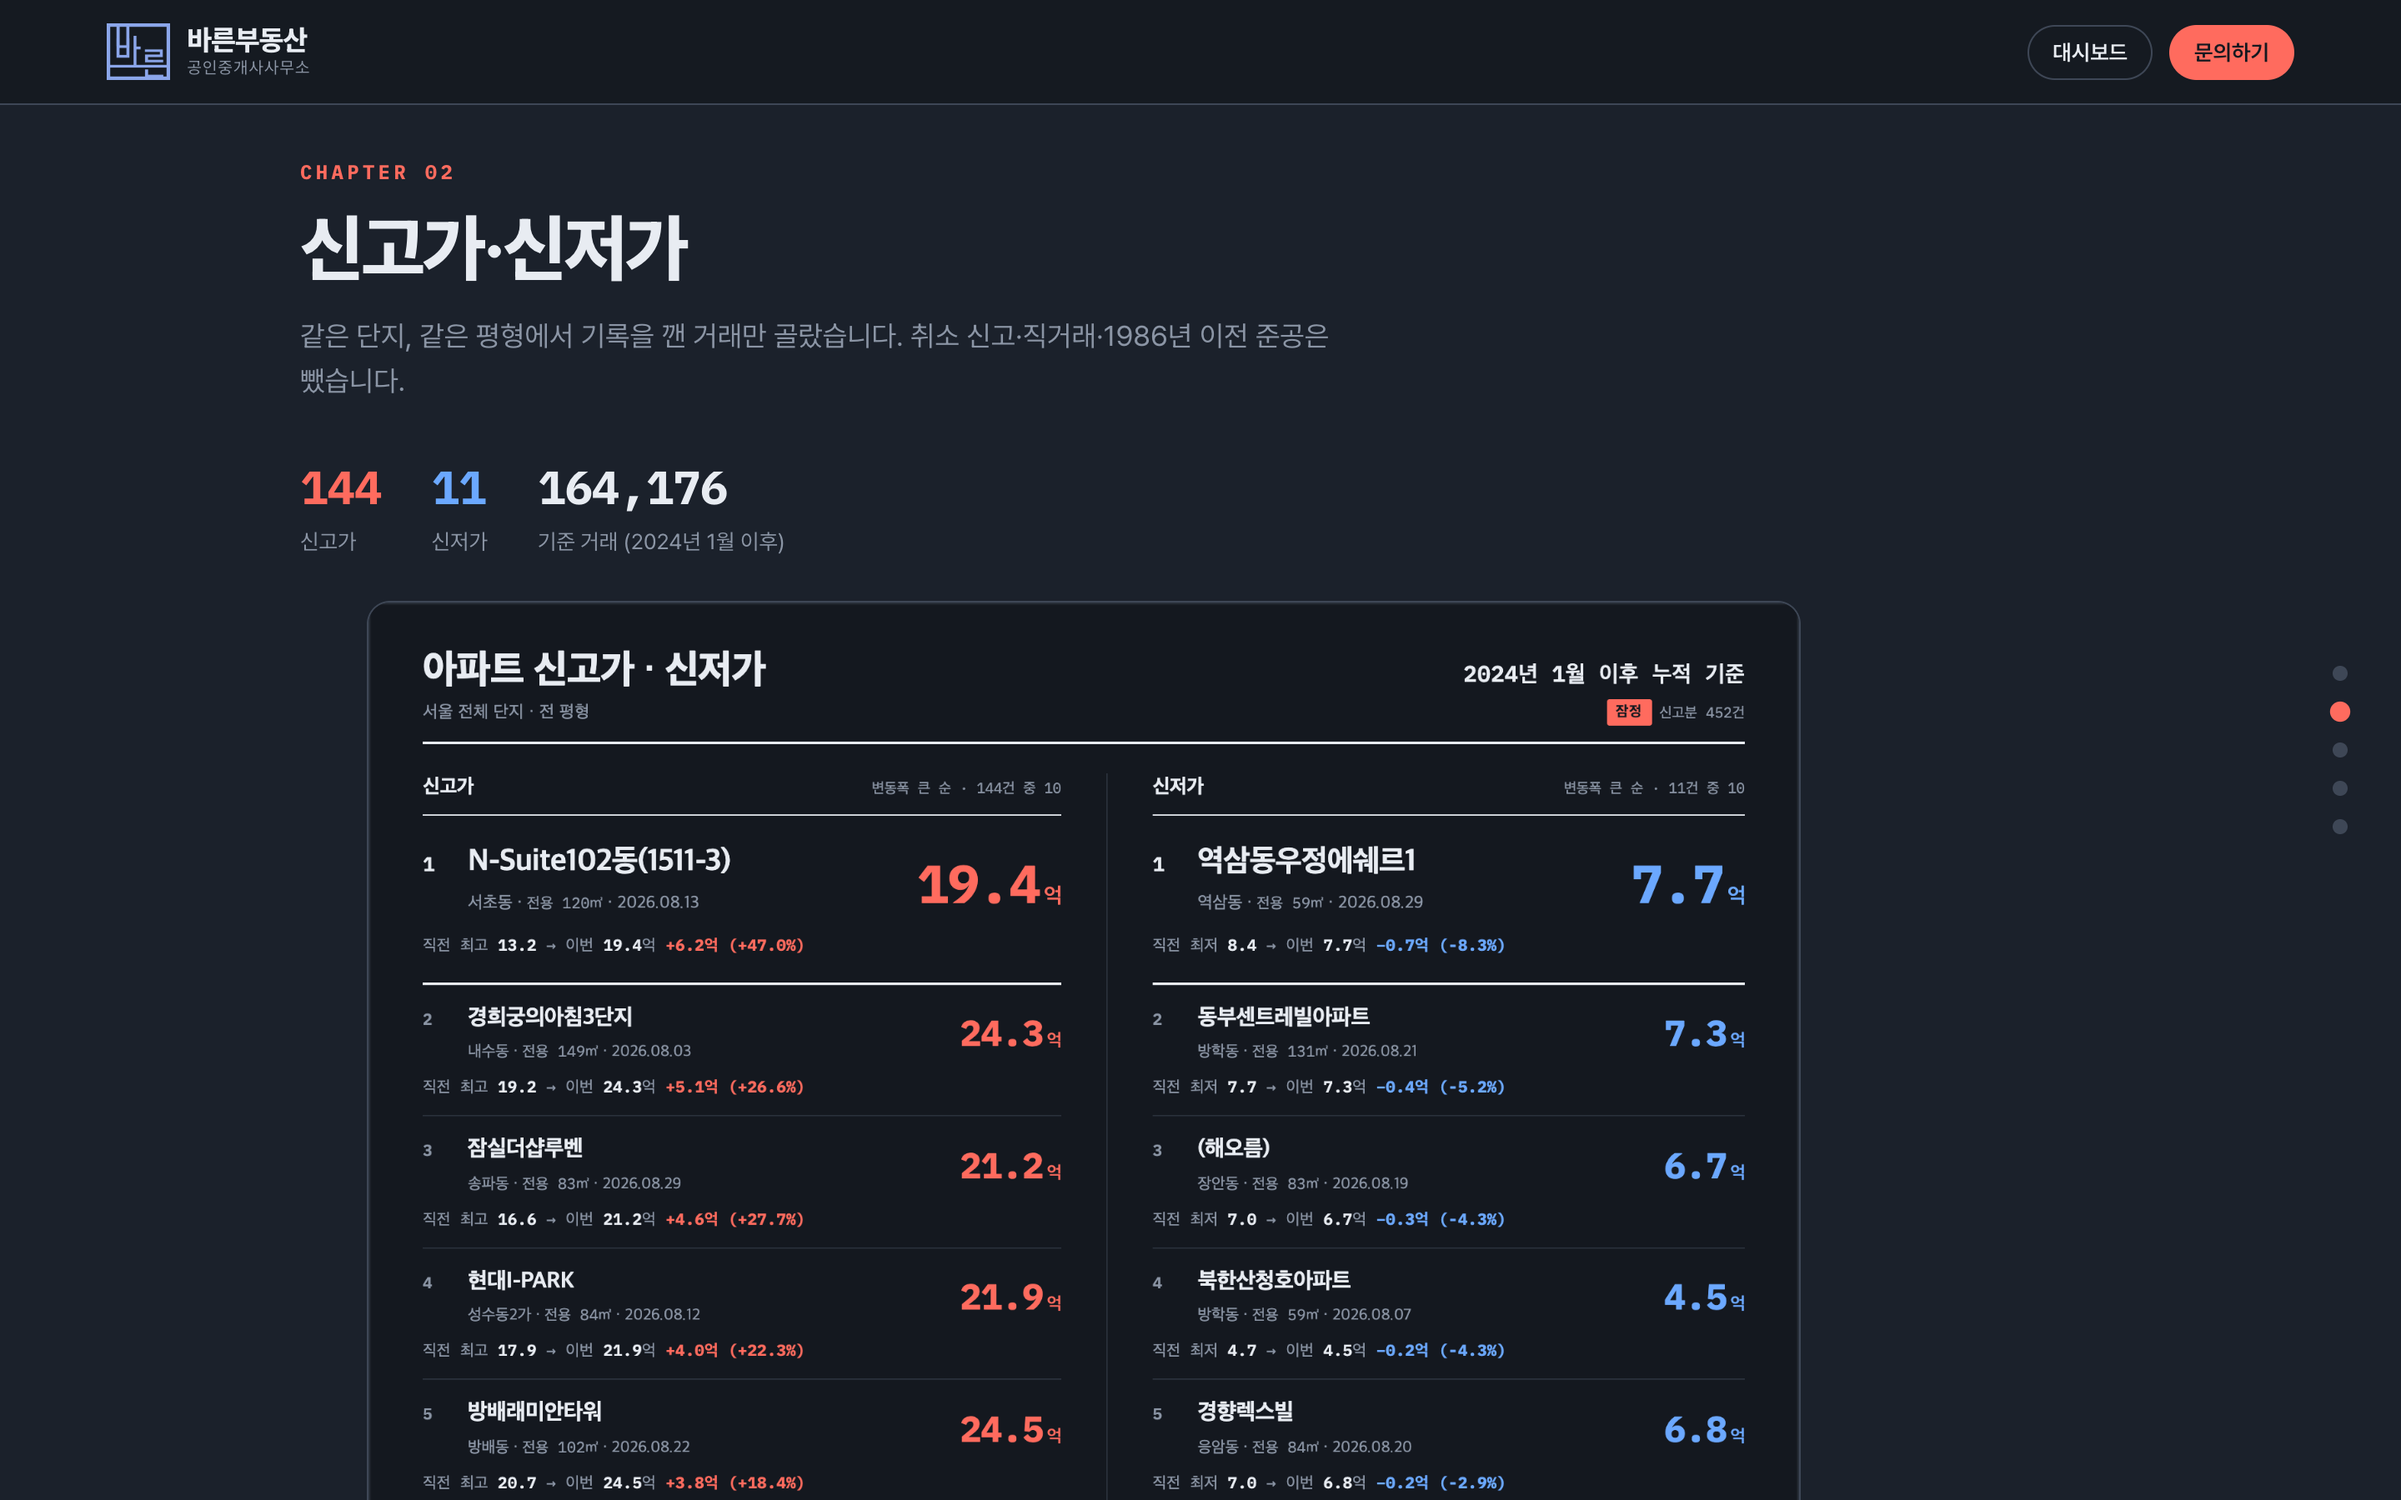
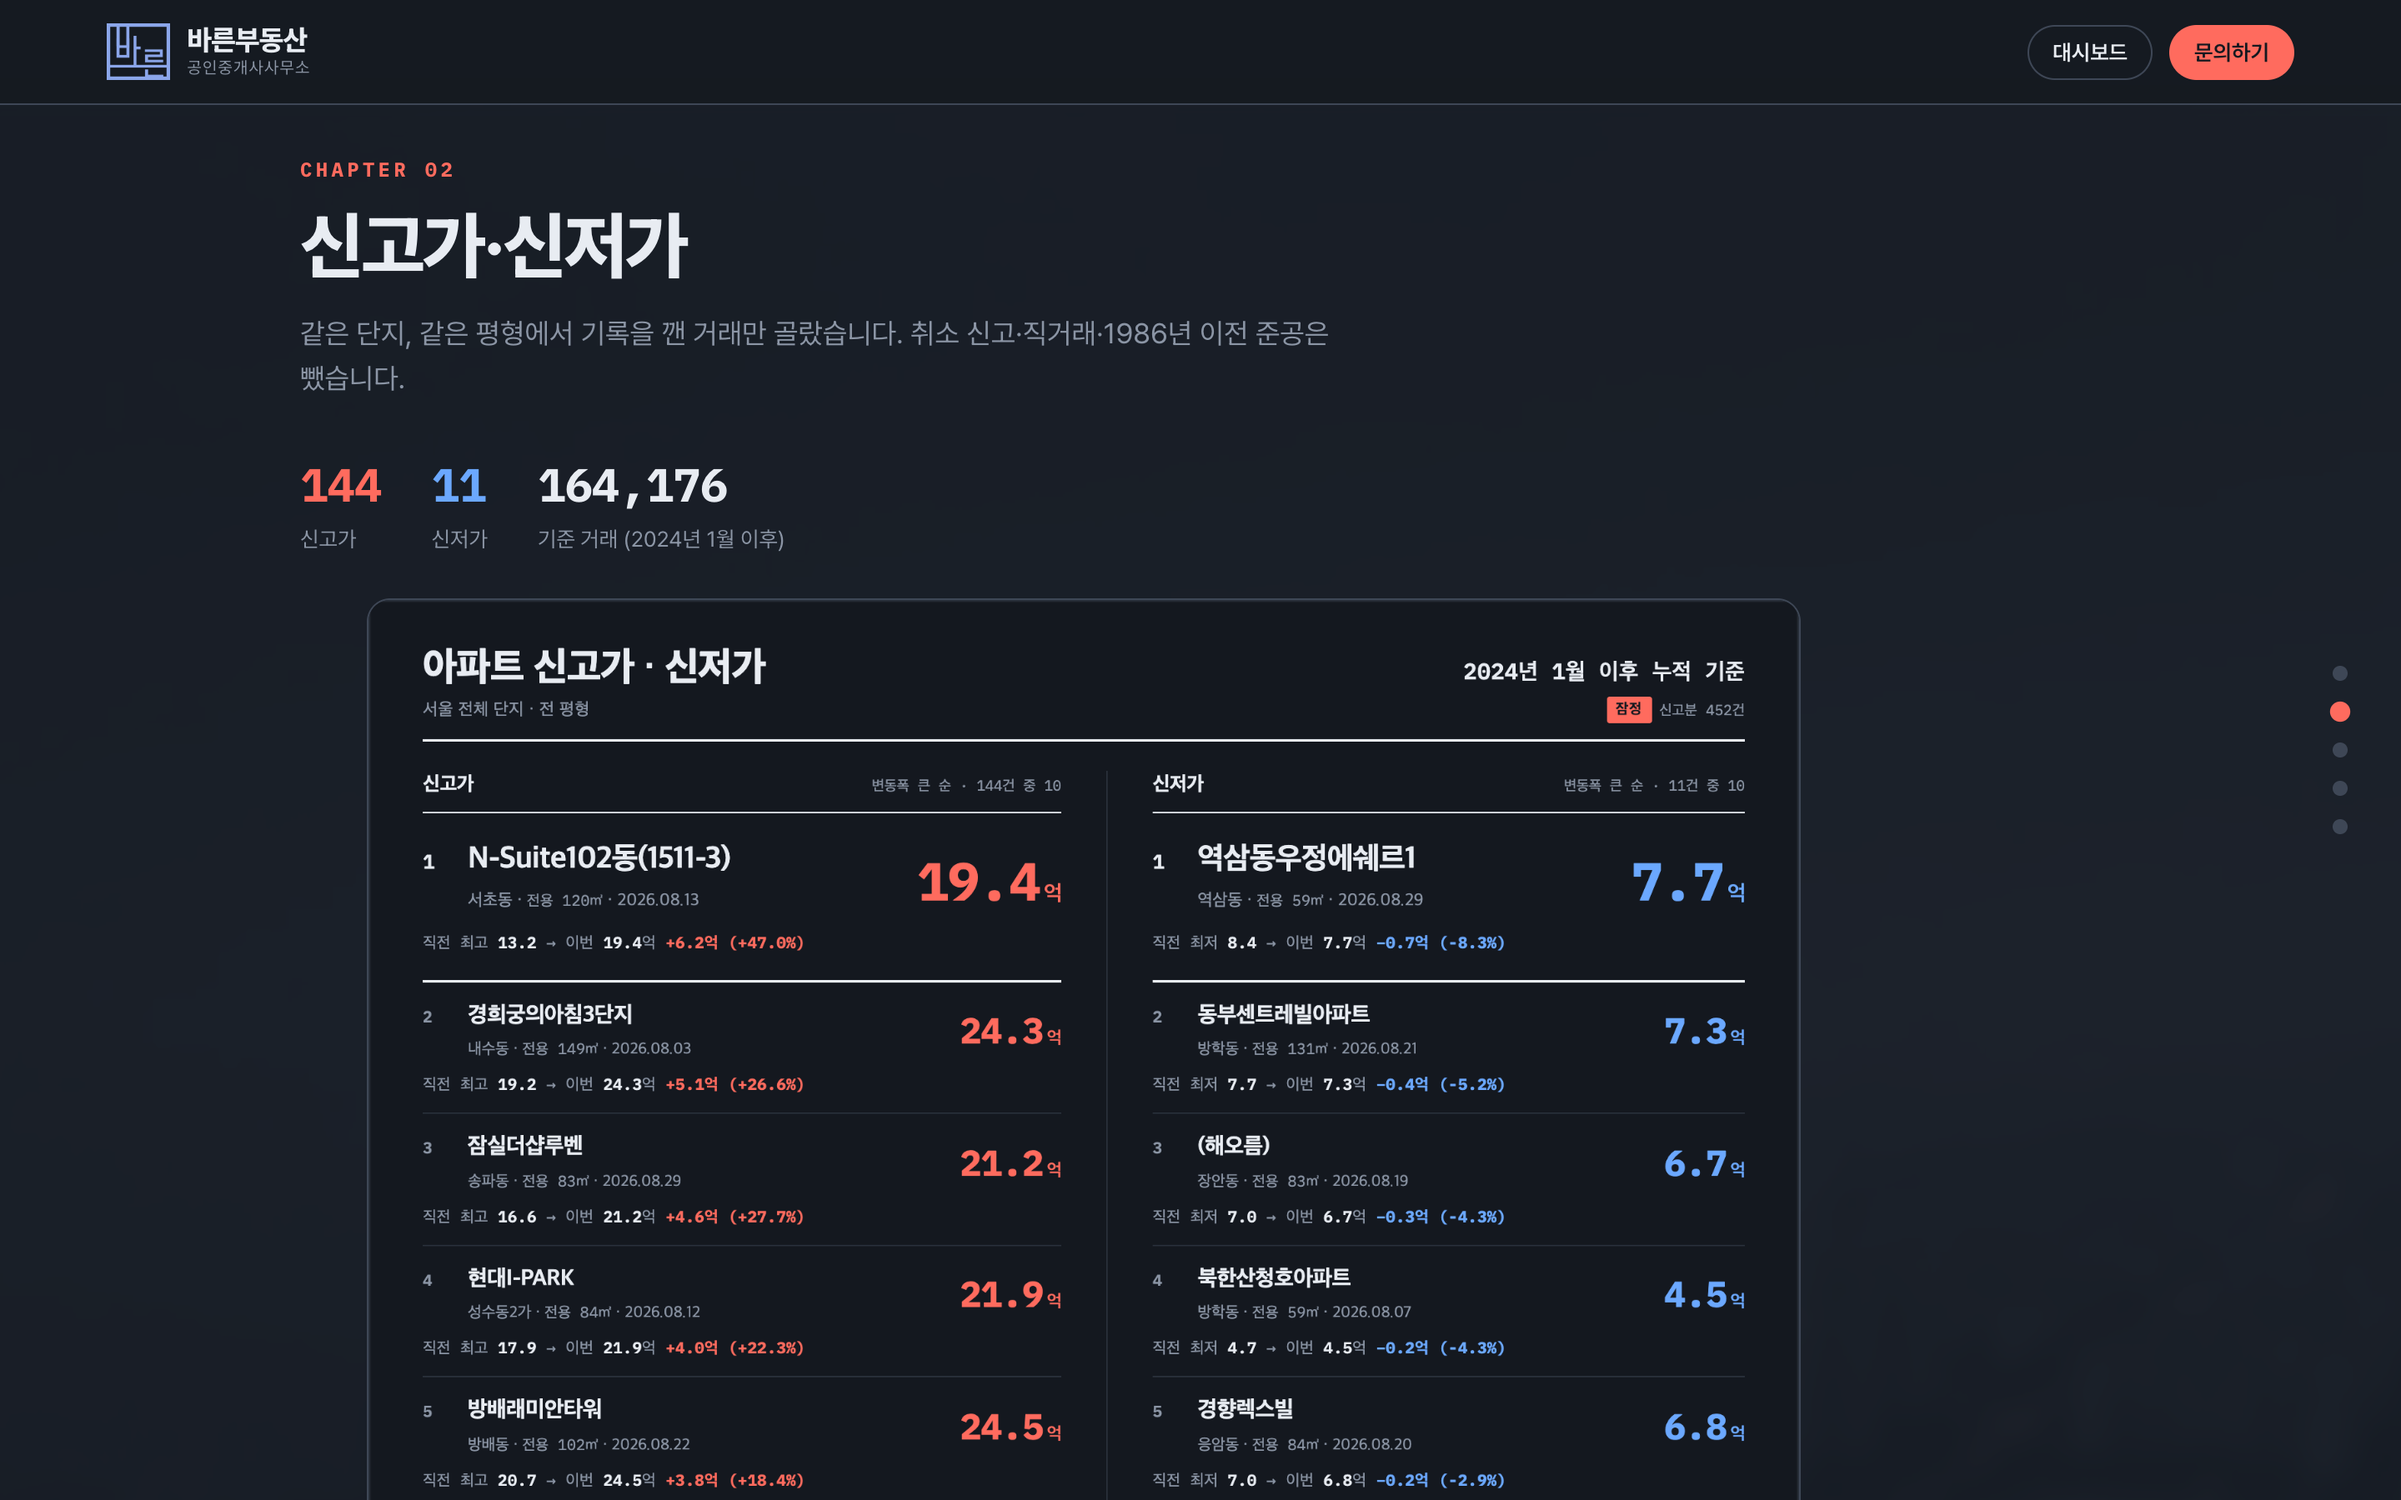
style: 챕터 2~5 배경에 히어로 사진을 낮게 깔고 히어로 안내 문구 제거
같은 사진을 챕터마다 다른 위치·배율로 잘라 써 반복감을 없앴다.
opacity .2 + blur 8px + brightness .72 — 리포트 이미지와 글자가 주인공이다.
휴대폰도 같은 이미지 배경을 그대로 쓴다.

diff --git a/index.html b/index.html
@@ -98,7 +98,30 @@ section.ch{
   border-bottom:1px solid var(--slate);position:relative;overflow:hidden;
 }
 section.ch:nth-child(even){background:var(--ink-2)}
-.inner{width:100%;max-width:1080px;margin:0 auto}
+.inner{position:relative;z-index:1;width:100%;max-width:1080px;margin:0 auto}
+
+/* 챕터 ②~⑤ 배경 — 히어로와 같은 사진을 거의 안 보이게 깐다.
+   주인공은 리포트 이미지와 글자다. 사진은 히어로에서 이어진다는 신호만 준다.
+   inset 을 음수로 준 이유: blur 는 가장자리를 흐려 투명하게 만든다. 화면 밖으로
+   밀어내야 테두리에 뿌연 띠가 안 생긴다.
+   챕터마다 위치와 배율을 다르게 줘 같은 그림이 네 번 반복되는 느낌을 지운다. */
+#ch2::before,#ch3::before,#ch4::before,#ch5::before{
+  content:'';position:absolute;inset:-40px;z-index:0;pointer-events:none;
+  background-image:url('assets/hero-seoul.jpg');
+  background-repeat:no-repeat;
+  opacity:.2;
+  filter:blur(8px) saturate(.5) brightness(.72);
+}
+#ch2::before{background-position:14% 22%;background-size:135%}
+#ch3::before{background-position:80% 40%;background-size:120%}
+#ch4::before{background-position:32% 80%;background-size:155%}
+#ch5::before{background-position:94% 60%;background-size:128%}
+@supports (background-image:image-set(url('assets/hero-seoul.webp') type('image/webp'))){
+  #ch2::before,#ch3::before,#ch4::before,#ch5::before{
+    background-image:image-set(url('assets/hero-seoul.webp') type('image/webp'),
+                               url('assets/hero-seoul.jpg')  type('image/jpeg'));
+  }
+}
 .ch-no{
   font:700 12px/1 var(--num);color:var(--coral);letter-spacing:.18em;
   display:block;margin-bottom:14px;
@@ -168,11 +191,6 @@ h2{font-size:clamp(26px,4.6vw,44px);font-weight:800;letter-spacing:-.03em;margin
   /* 글자까지 읽히면 배경이 아니라 또 하나의 콘텐츠가 된다. 위아래를 흐려 선만 남긴다 */
   -webkit-mask-image:linear-gradient(180deg,transparent 0%,#000 34%,#000 74%,transparent 100%);
   mask-image:linear-gradient(180deg,transparent 0%,#000 34%,#000 74%,transparent 100%);
-}
-.media-tag{
-  position:absolute;left:var(--gut);bottom:22px;z-index:3;
-  font:600 10px/1 var(--num);letter-spacing:.14em;color:var(--muted);
-  border:1px dashed var(--slate);border-radius:999px;padding:7px 12px;
 }
 #ch1 .inner{position:relative;z-index:2}
 .hero-kicker{color:var(--coral);font-weight:700;font-size:13px;letter-spacing:.14em;margin:0 0 18px}
@@ -297,7 +315,6 @@ footer a.mail:hover{text-decoration:underline}
       <source src="assets/hero-seoul.mp4" type="video/mp4">
     </video>
     <div class="hero-scrim" aria-hidden="true"></div>
-    <span class="media-tag">배경 영상 — 데스크톱만 재생 · 휴대폰은 같은 컷의 정지 이미지</span>
     <div class="inner">
       <p class="hero-kicker">서울 25개 자치구 · 매주 갱신</p>
       <h1 class="hero-h">지금 서울은<br>이렇게 거래되고 있습니다.</h1>
